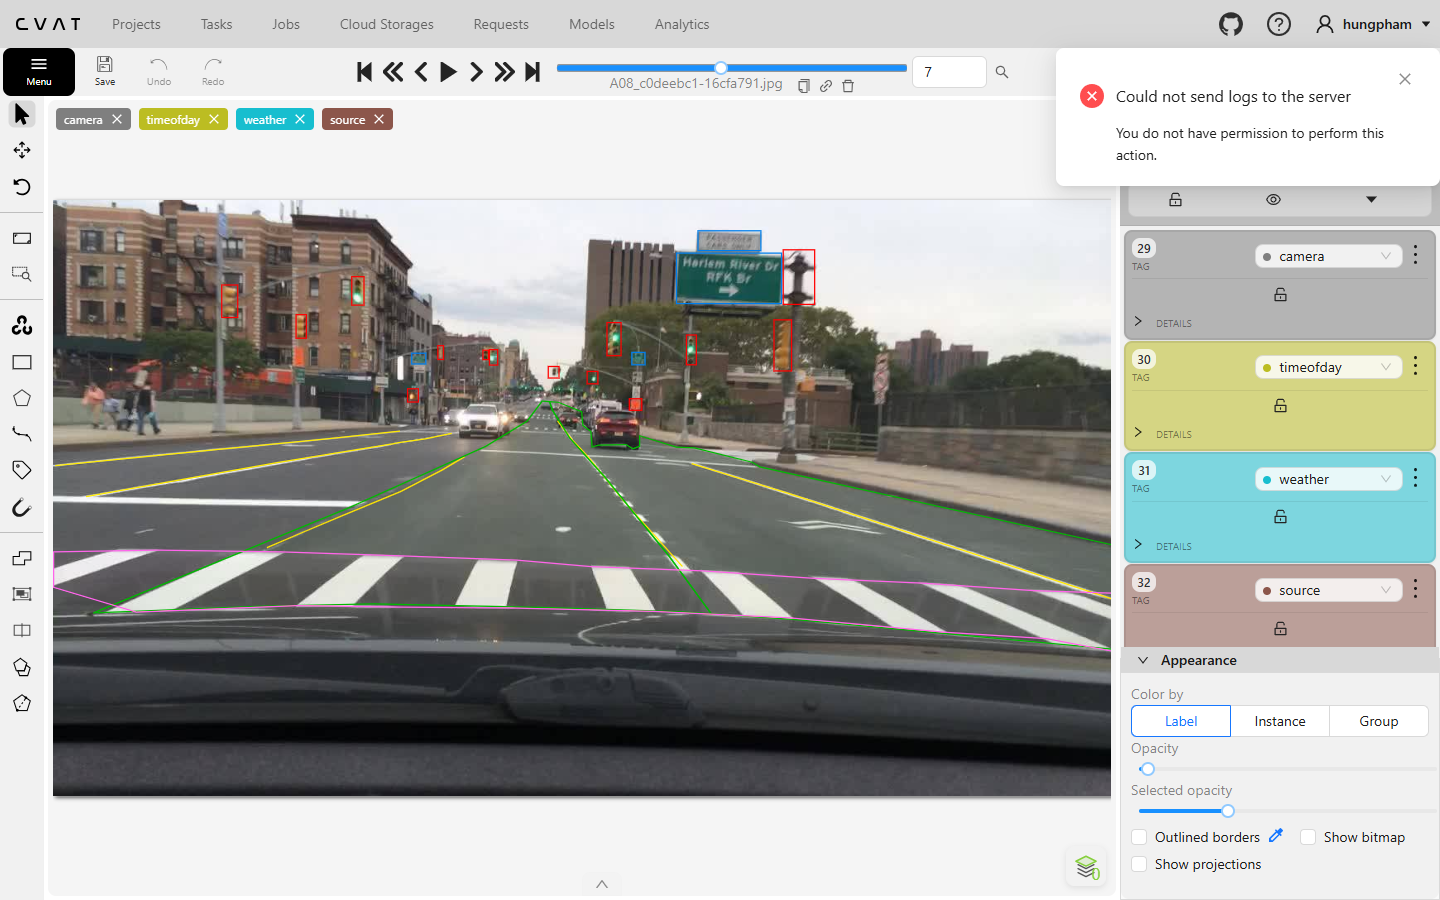
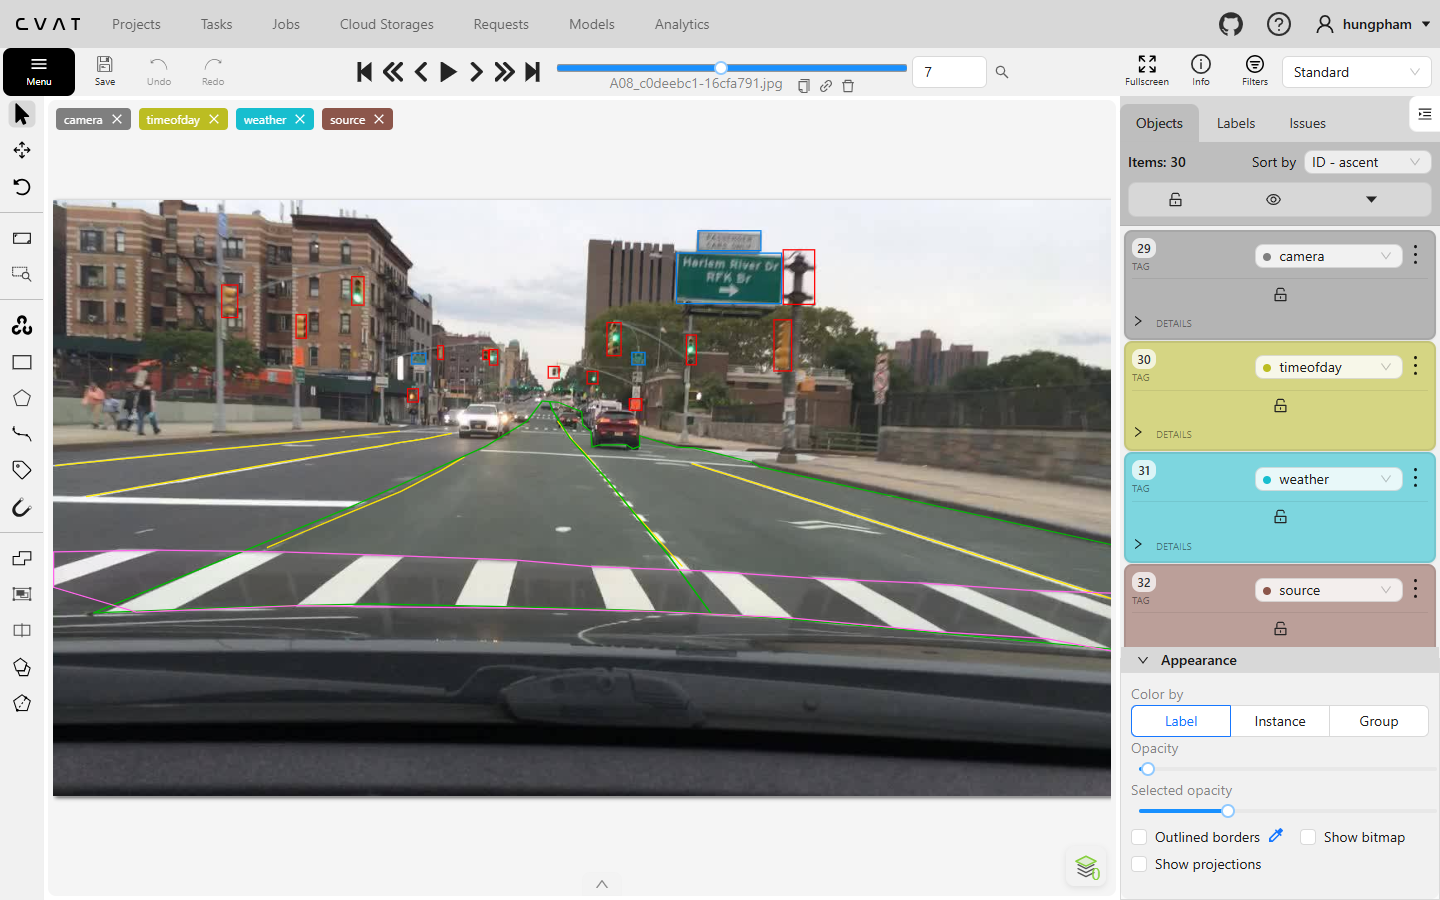
docs(day11): retake report screenshots without CVAT error toast
Dismiss the floating notification before capturing so screenshots 1-3 show
only the project/annotation UI.

Changed region(s): [[0.75, 0.0622, 1.0, 0.2178]]

diff --git a/scripts/capture_report_screens.py b/scripts/capture_report_screens.py
@@ -24,6 +24,15 @@ def _extract_lane_xml_snippet() -> str:
     return "\n".join(lines[:20])
 
 
+def _dismiss_toasts(page) -> None:
+    """Ẩn thông báo nổi (vd. 'Could not send logs to the server') trước khi chụp."""
+    page.evaluate(
+        "document.querySelectorAll('.cvat-notification-notice, .ant-notification, .ant-message')"
+        ".forEach(e => e.remove());"
+    )
+    page.wait_for_timeout(300)
+
+
 def main() -> int:
     SHOTS.mkdir(parents=True, exist_ok=True)
     vals = dotenv_values(ROOT / ".env")
@@ -42,16 +51,19 @@ def main() -> int:
         # 1. Project #5 Labels
         page.goto(f"{url}/projects/5", wait_until="networkidle", timeout=20000)
         page.wait_for_timeout(1500)
+        _dismiss_toasts(page)
         page.screenshot(path=str(SHOTS / "01-project-labels.png"))
 
         # 2. Front Job #59 frame 7 (A08)
         page.goto(f"{url}/tasks/60/jobs/59?frame=7", wait_until="networkidle", timeout=25000)
         page.wait_for_timeout(2500)
+        _dismiss_toasts(page)
         page.screenshot(path=str(SHOTS / "02-front-annotated.png"))
 
         # 3. Fisheye Job #60 frame 2 (B03)
         page.goto(f"{url}/tasks/61/jobs/60?frame=2", wait_until="networkidle", timeout=25000)
         page.wait_for_timeout(2500)
+        _dismiss_toasts(page)
         page.screenshot(path=str(SHOTS / "03-fisheye-polyline.png"))
 
         # 4. XML snippet screenshot
